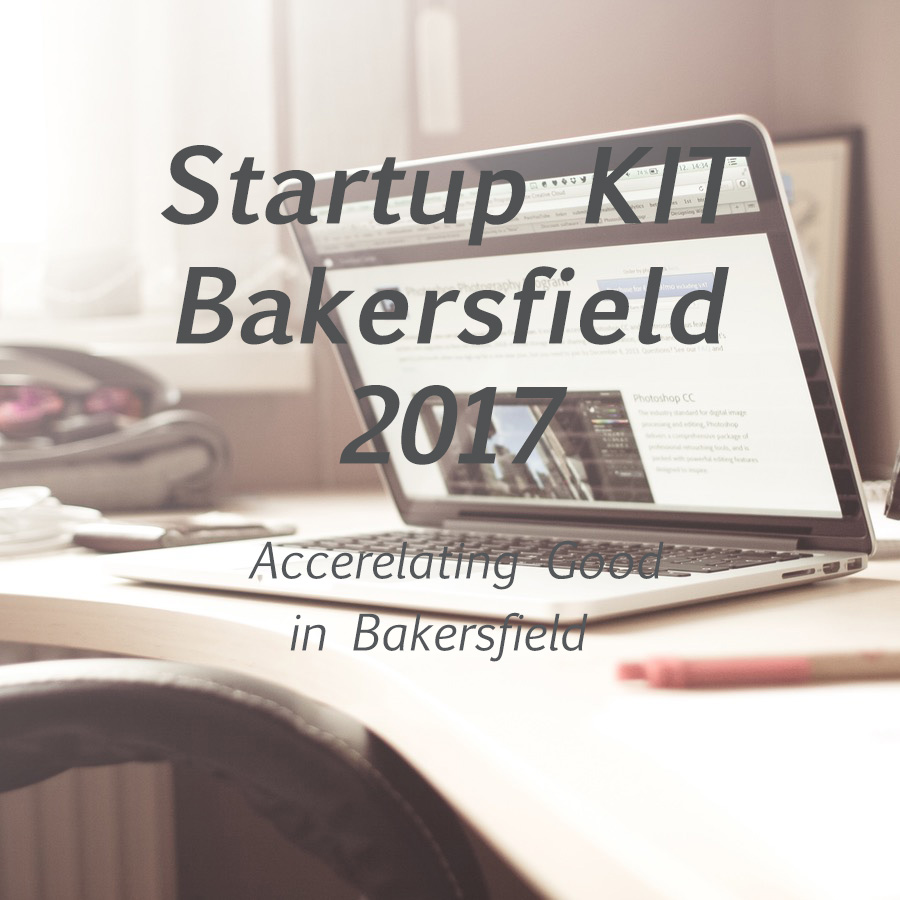
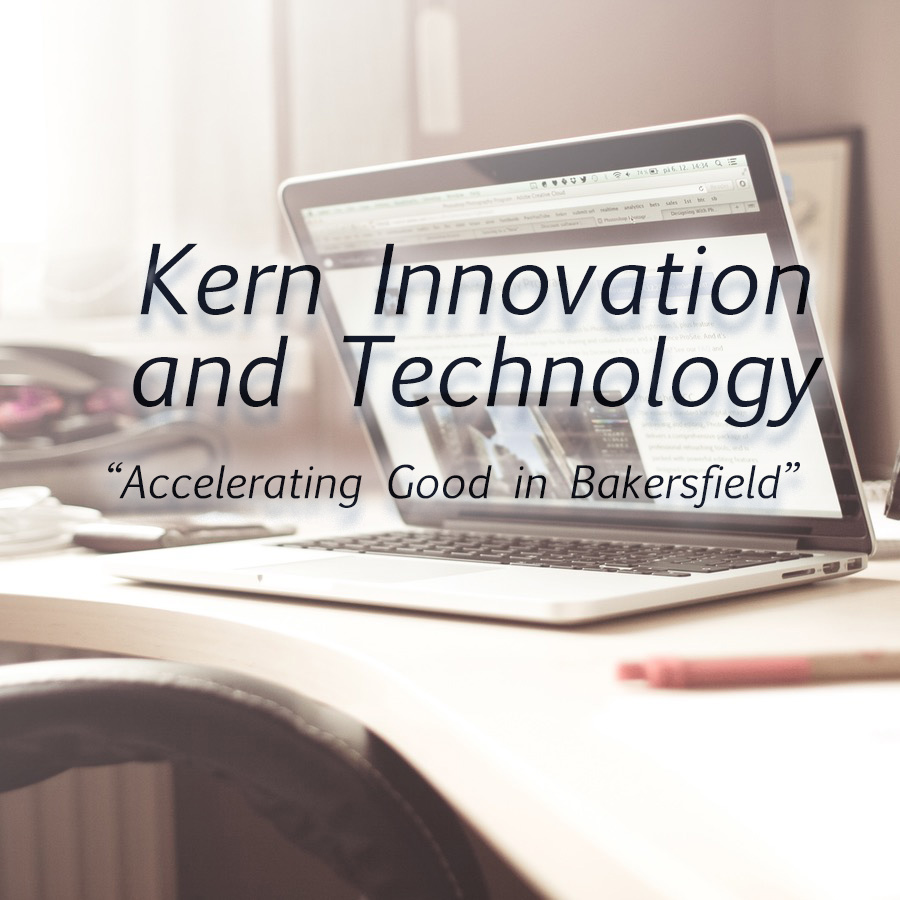
set up

Changed region(s): [[0.0933, 0.1556, 0.9333, 0.6533], [0.3111, 0.6844, 0.6533, 0.7467]]

diff --git a/index.html b/index.html
@@ -7,9 +7,10 @@
     <meta http-equiv="X-UA-Compatible" content="IE=edge">
     <meta name="viewport" content="width=device-width, initial-scale=1">
     <meta name="description"
-          content="Kit Startup Bakersfield is holding its first annual accelerator, aimed at helping tech startups in Bakersfield.">
-    <meta name="keywords" content="Bakersfield, Startup, KIT, tech, technology, start up, accelerator">
-    <meta name="author" content="Alyssa Haas, Kevin Mershon, Matthew Jimenez">
+          content="Startup KIT Bakersfield is a tech startup accelerator and competition aimed at helping local entrepreneurs take startup ideas to market.">
+    <meta name="keywords"
+          content="startup kit bakersfield, bakersfield, kern county, kit community, kit, startup, accelerator, startup kit bakersfield accelerator, startup kit bakersfield 2017, bakersfield summer accelerator, startup kit bakersfield accelerator 2017, kit community accelerator, bakersfield startups, bakersfield technology, startup resources bakersfield, startup competition bakersfield, tech idea bakersfield, startup competition kern county, kern county startups, startup, startups, tech, technology, innovation, bakersfield innovation, things to do in bakersfield, coding bakersfield, code bakersfield, startup business, business idea, bakersfield business idea, innovative idea bakersfield, tech accelerator bakersfield, bakersfield incubator, tech boot camp bakersfield, startup boot camp bakersfield">
+    <meta name="author" content="KIT Community, Alyssa Haas, Kevin Mershon, Matthew Jimenez">
 
 
     <!-- My Custom Css -->
@@ -28,6 +29,10 @@
 
 <body>
 
+
+<header>
+    <h1 style="display: none">Startup KIT Bakersfield 2017</h1>
+</header>
 <!-- Navigation -->
 <nav class=" navbar navbar-inverse navbar-fixed-top" role="navigation">
 
@@ -42,8 +47,9 @@
                 <span class="icon-bar"></span>
                 <span class="icon-bar"></span>
             </button>
-            <a class="navbar-brand" href="#">
-                <img style="width: auto; height: 50px;" class="img-responsive" src="assets/images/kit-logo.png"
+            <a target="_blank" class="navbar-brand" href="http://followthefox.org/">
+                <img style="width: auto; height: 50px;" class=""
+                     src="assets/images/KitFoundation%20FINAL-04%20-%20white.png"
                      alt="KIT Community">
             </a>
             <!--<h1 style="color: white; font-size: 4vw; margin-left: 90px" class="navbar-text">Startup KIT Bakersfield-->
@@ -54,13 +60,13 @@
         <div class="collapse navbar-collapse" id="bs-example-navbar-collapse-1">
             <ul class="nav navbar-nav navbar-right my-links">
                 <li>
-                    <a href="#">Register</a>
+                    <a target="_blank" href="https://www.f6s.com/startupkitbakersfield2017/apply">Register</a>
                 </li>
                 <li>
                     <a href="#">Schedule</a>
                 </li>
                 <li>
-                    <a href="#">Contact</a>
+                    <a href="#contact">Contact</a>
                 </li>
             </ul>
         </div>
@@ -70,8 +76,8 @@
 </nav>
 
 <!-- Main Picture -->
-<div class="col-md-12 hidden-sm hidden-xs">
-    <img width="100%" class=" img-rounded" src="assets/images/main_photo_with_text%20copy.jpg" alt="">
+<div style="padding: 0 0;" class="col-md-12 hidden-sm hidden-xs">
+    <img width="100%" class="" src="assets/images/main_photo_with_text.jpg" alt="">
 </div>
 <!-- /.col-md-7 end main picture -->
 
@@ -82,8 +88,8 @@
     <div class="row">
 
         <!-- Main Picture -->
-        <div class="col-md-12 visible-sm visible-xs">
-            <img class="img-responsive img-rounded" src="assets/images/main_photo_small_with_text.jpg" alt="">
+        <div style="padding: 0 0" class="col-md-12 visible-sm visible-xs">
+            <img class="img-responsive" src="assets/images/main_photo_small_with_text.jpg" alt="">
         </div>
         <!-- /.col-md-7 end main picture -->
     </div>
@@ -94,12 +100,14 @@
         <div class="col-md-12">
 
             <!-- Button size change on media query -->
-            <button style="margin: 5% 15% 2%; width: 70%;" class="my-button btn btn-lg hidden-sm hidden-xs" href="#">
-                Registration Opens April 24th
-            </button>
-            <button style="margin: 5% 15% 2%; width: 70%;" class="my-button btn btn-md visible-sm visible-xs" href="#">
-                Registration Opens April 24th
-            </button>
+            <a target="_blank" style="margin: 5% 15% 2%; width: 70%;" class="my-button btn btn-lg hidden-sm hidden-xs"
+               href="https://www.f6s.com/startupkitbakersfield2017/apply">
+                REGISTER YOUR TEAM
+            </a>
+            <a target="_blank" style="margin: 5% 15% 2%; width: 70%;" class="my-button btn btn-md visible-sm visible-xs"
+               href="https://www.f6s.com/startupkitbakersfield2017/apply">
+                REGISTER YOUR TEAM
+            </a>
             <p style="text-align: center">Registration Closes June 12th 2017</p>
 
         </div>
@@ -107,6 +115,7 @@
     </div>
 
     <hr>
+    <br>
 
     <!-- Information Row -->
     <div class="row">
@@ -116,37 +125,37 @@
                 <h2>About</h2>
 
 
-                <p>Startup KIT Bakersfield is a 61 day mini-accelerator program and competition aimed at early stage tech
+                <p>Startup KIT Bakersfield is a 61 day mini-accelerator program and competition aimed at early stage
+                    tech
                     startup
-                    ideas. This program is designed to help take projects from the idea stage to market ready product. All
+                    ideas. This program is designed to help take projects from the idea stage to market ready products.
+                    All
                     accelerator teams will be entered to compete for a large grand prize (at this point, we are raising
-                    funds for a $10,000 prize). Preference for this accelerator is given to ideas focused on social good and
+                    funds for a $10,000 prize). Preference for this accelerator is given to ideas focused on social good
+                    and
                     environmental issues.
                 </p>
                 <p>
-                    This accelerator is a program of the KIT Community in partnership with the Bakersfield Mayor's Office,
+                    This accelerator is a program of the KIT Community in partnership with the Bakersfield Mayor's
+                    Office,
                     Kern County Libraries, CSUB Small Business Development Center, MESH Cowork, and local investors.
                 </p>
-                Any questions can be addressed to Alyssa Haas at the KIT Community at contact@followthefox.org.</p>
+                Any questions can be addressed to Alyssa Haas at the KIT Community at
+                <b>contact@followthefox.org</b></p>
 
             </div>
             <div class="row container-fluid">
 
 
                 <h2>Activities</h2>
-                <ul class="list-group">
-                    <li class="list-group-item">Opening and Closing Event</li>
-                    <li class="list-group-item">Regular Weekly Workshops (6-7 in total, topics tbd)</li>
-                    <li class="list-group-item">Mentor/Coach Weekly Office Hours</li>
-                    <li class="list-group-item">Booking Kern County Library - Beale Library for event space</li>
-                </ul>
+                    <p>• Opening and Closing Event</p>
+                    <p>• Regular Weekly Workshops (6-7 in total, topics tbd)</p>
+                    <p>• Mentor/Coach Weekly Office Hours</p>
 
             </div>
 
         </div>
         <!-- /.col-md-4 -->
-
-
 
 
         <div class="col-md-6" style="text-align: justify;">
@@ -213,7 +222,7 @@
             <!--                <a class="btn btn-default" href="#">More Info</a>-->
         </div>
         <!-- /.col-md-3 -->
-        <div class="col-md-3 col-xs-6">
+        <div id="contact" class="col-md-3 col-xs-6">
             <h2 style="white-space: nowrap; font-size: 1.3vmax;">Kern County Library</h2>
             <img style="margin-bottom: 20px;" class="img-responsive img-rounded" src="http://placehold.it/900x900"
                  alt="">
@@ -231,39 +240,84 @@
     <!-- /. end Partners and Organizers row -->
 
 
-    <!-- Footer -->
-    <footer>
-        <div style="margin-top: 200px; text-align: center;" class="row my-footer-links">
-            <div class="col-lg-12">
-
-                <span style="white-space: nowrap; font-size: 1.3vmax; display: inline; padding: 0 20px 0 0px"><a
-                        href="#">Register</a></span>
-                <span style="white-space: nowrap; font-size: 1.3vmax; display: inline; padding: 0 20px 0 0px"><a
-                        href="#">Partners & Organizers</a></span>
-                <span style="white-space: nowrap; font-size: 1.3vmax; display: inline; padding: 0 20px 0 0px"><a
-                        href="#">Schedule</a></span>
-                <span style="white-space: nowrap; font-size: 1.3vmax; display: inline; padding: 0 20px 0 0px"><a
-                        href="#">Contact</a></span>
+    <hr>
 
 
-            </div>
-            <div class="my-footer" class="col-lg-12">
-                <span class="col-md-12 col-xs-12 col-sm-12">Copyright &copy; 2017 StartupKIT.com</span><span
-                    class="col-md-12 col-xs-12 col-sm-12">created by <a
-                    href="https://www.linkedin.com/in/matthew-jimenez-02609a129/">Matthew Jimenez</a></span>
-            </div>
+    <!--  -->
+    <div class="row container-fluid">
+
+        <div class="col-xs-12 col-sm-12 col-md-4">
+            <h2 id="">Contact</h2>
+            <p style="font-size: 1.7rem">Alyssa Haas</p>
+            <p style="font-size: 1.7rem">contact@followthefox.org</p>
+            <p style="font-size: 1.7rem">661-368-5482</p>
         </div>
-    </footer>
-    <!-- /. end Footer -->
 
-</div>
-<!-- /. end container -->
+        <!-- Begin MailChimp Signup Form -->
+        <link href="//cdn-images.mailchimp.com/embedcode/horizontal-slim-10_7.css" rel="stylesheet" type="text/css">
 
-<!-- jQuery -->
-<script src="https://ajax.googleapis.com/ajax/libs/jquery/3.2.1/jquery.min.js"></script>
 
-<!-- Bootstrap Core JavaScript -->
-<script src="https://maxcdn.bootstrapcdn.com/bootstrap/3.3.7/js/bootstrap.min.js"></script>
+        <!-- id = mc_embed_signup
+                removed from next div
+        -->
+        <div class="col-xs-12 col-sm-12 col-md-8" id="">
+            <form action="//followthefox.us13.list-manage.com/subscribe/post?u=b4d426f283324aaed10af536a&amp;id=21937ea8ad"
+                  method="post" id="mc-embedded-subscribe-form" name="mc-embedded-subscribe-form" class="validate"
+                  target="_blank" novalidate>
+                <div id="mc_embed_signup_scroll">
+                    <h2>Subscribe to our newsletter</h2>
+                    <input type="email" value="" name="EMAIL" class="email form-control" id="mce-EMAIL"
+                           placeholder="email address"
+                           required>
+                    <!-- real people should not fill this in and expect good things - do not remove this or risk form bot signups-->
+                    <div style="position: absolute; left: -5000px;" aria-hidden="true"><input type="text"
+                                                                                              name="b_b4d426f283324aaed10af536a_21937ea8ad"
+                                                                                              tabindex="-1"
+                                                                                              value="">
+                    </div>
+                    <br>
+                    <div class="clear"><input type="submit" value="SUBSCRIBE" name="subscribe" class="btn btn-default"></div>
+                </div>
+            </form>
+        </div>
+        <!--End mc_embed_signup-->
+
+
+    </div>
+    <div class="container-fluid row">
+        <!-- Footer -->
+        <footer>
+            <div style="margin-top: 200px; text-align: center;" class="row my-footer-links">
+                <div class="col-lg-12">
+
+                <span style="white-space: nowrap; font-size: 1.3vmax; display: inline; padding: 0 20px 0 0px"><a
+                        target="_blank"
+                        href="https://www.f6s.com/startupkitbakersfield2017/apply">Register</a></span>
+                    <span style="white-space: nowrap; font-size: 1.3vmax; display: inline; padding: 0 20px 0 0px"><a
+                            href="#">Schedule</a></span>
+                    <span style="white-space: nowrap; font-size: 1.3vmax; display: inline; padding: 0 20px 0 0px"><a
+                            href="#contact">Contact</a></span>
+
+
+                </div>
+                <div class="my-footer" class="col-lg-12">
+                    <span class="col-md-12 col-xs-12 col-sm-12">Copyright &copy; 2017 StartupKIT.com</span><span
+                        class="col-md-12 col-xs-12 col-sm-12">created by <a
+                        href="https://www.linkedin.com/in/matthew-jimenez-02609a129/">Matthew Jimenez</a></span>
+                </div>
+            </div>
+        </footer>
+        <!-- /. end Footer -->
+
+
+    </div>
+    <!-- /. end container -->
+
+    <!-- jQuery -->
+    <script src="https://ajax.googleapis.com/ajax/libs/jquery/3.2.1/jquery.min.js"></script>
+
+    <!-- Bootstrap Core JavaScript -->
+    <script src="https://maxcdn.bootstrapcdn.com/bootstrap/3.3.7/js/bootstrap.min.js"></script>
 
 </body>
 

diff --git a/css/small-business.css b/css/small-business.css
@@ -5,7 +5,7 @@
  */
 
 body {
-    padding-top: 70px; /* Required padding for .navbar-fixed-top. Change if height of navigation changes. */
+    padding-top: 50px; /* Required padding for .navbar-fixed-top. Change if height of navigation changes. */
 }
 
 .navbar-fixed-top .nav {
@@ -22,7 +22,7 @@ footer {
 
 @media(min-width:768px) {
     body {
-        padding-top: 100px; /* Required padding for .navbar-fixed-top. Change if height of navigation changes. */
+        padding-top: 80px; /* Required padding for .navbar-fixed-top. Change if height of navigation changes. */
     }
 
     .navbar-fixed-top .navbar-brand {
